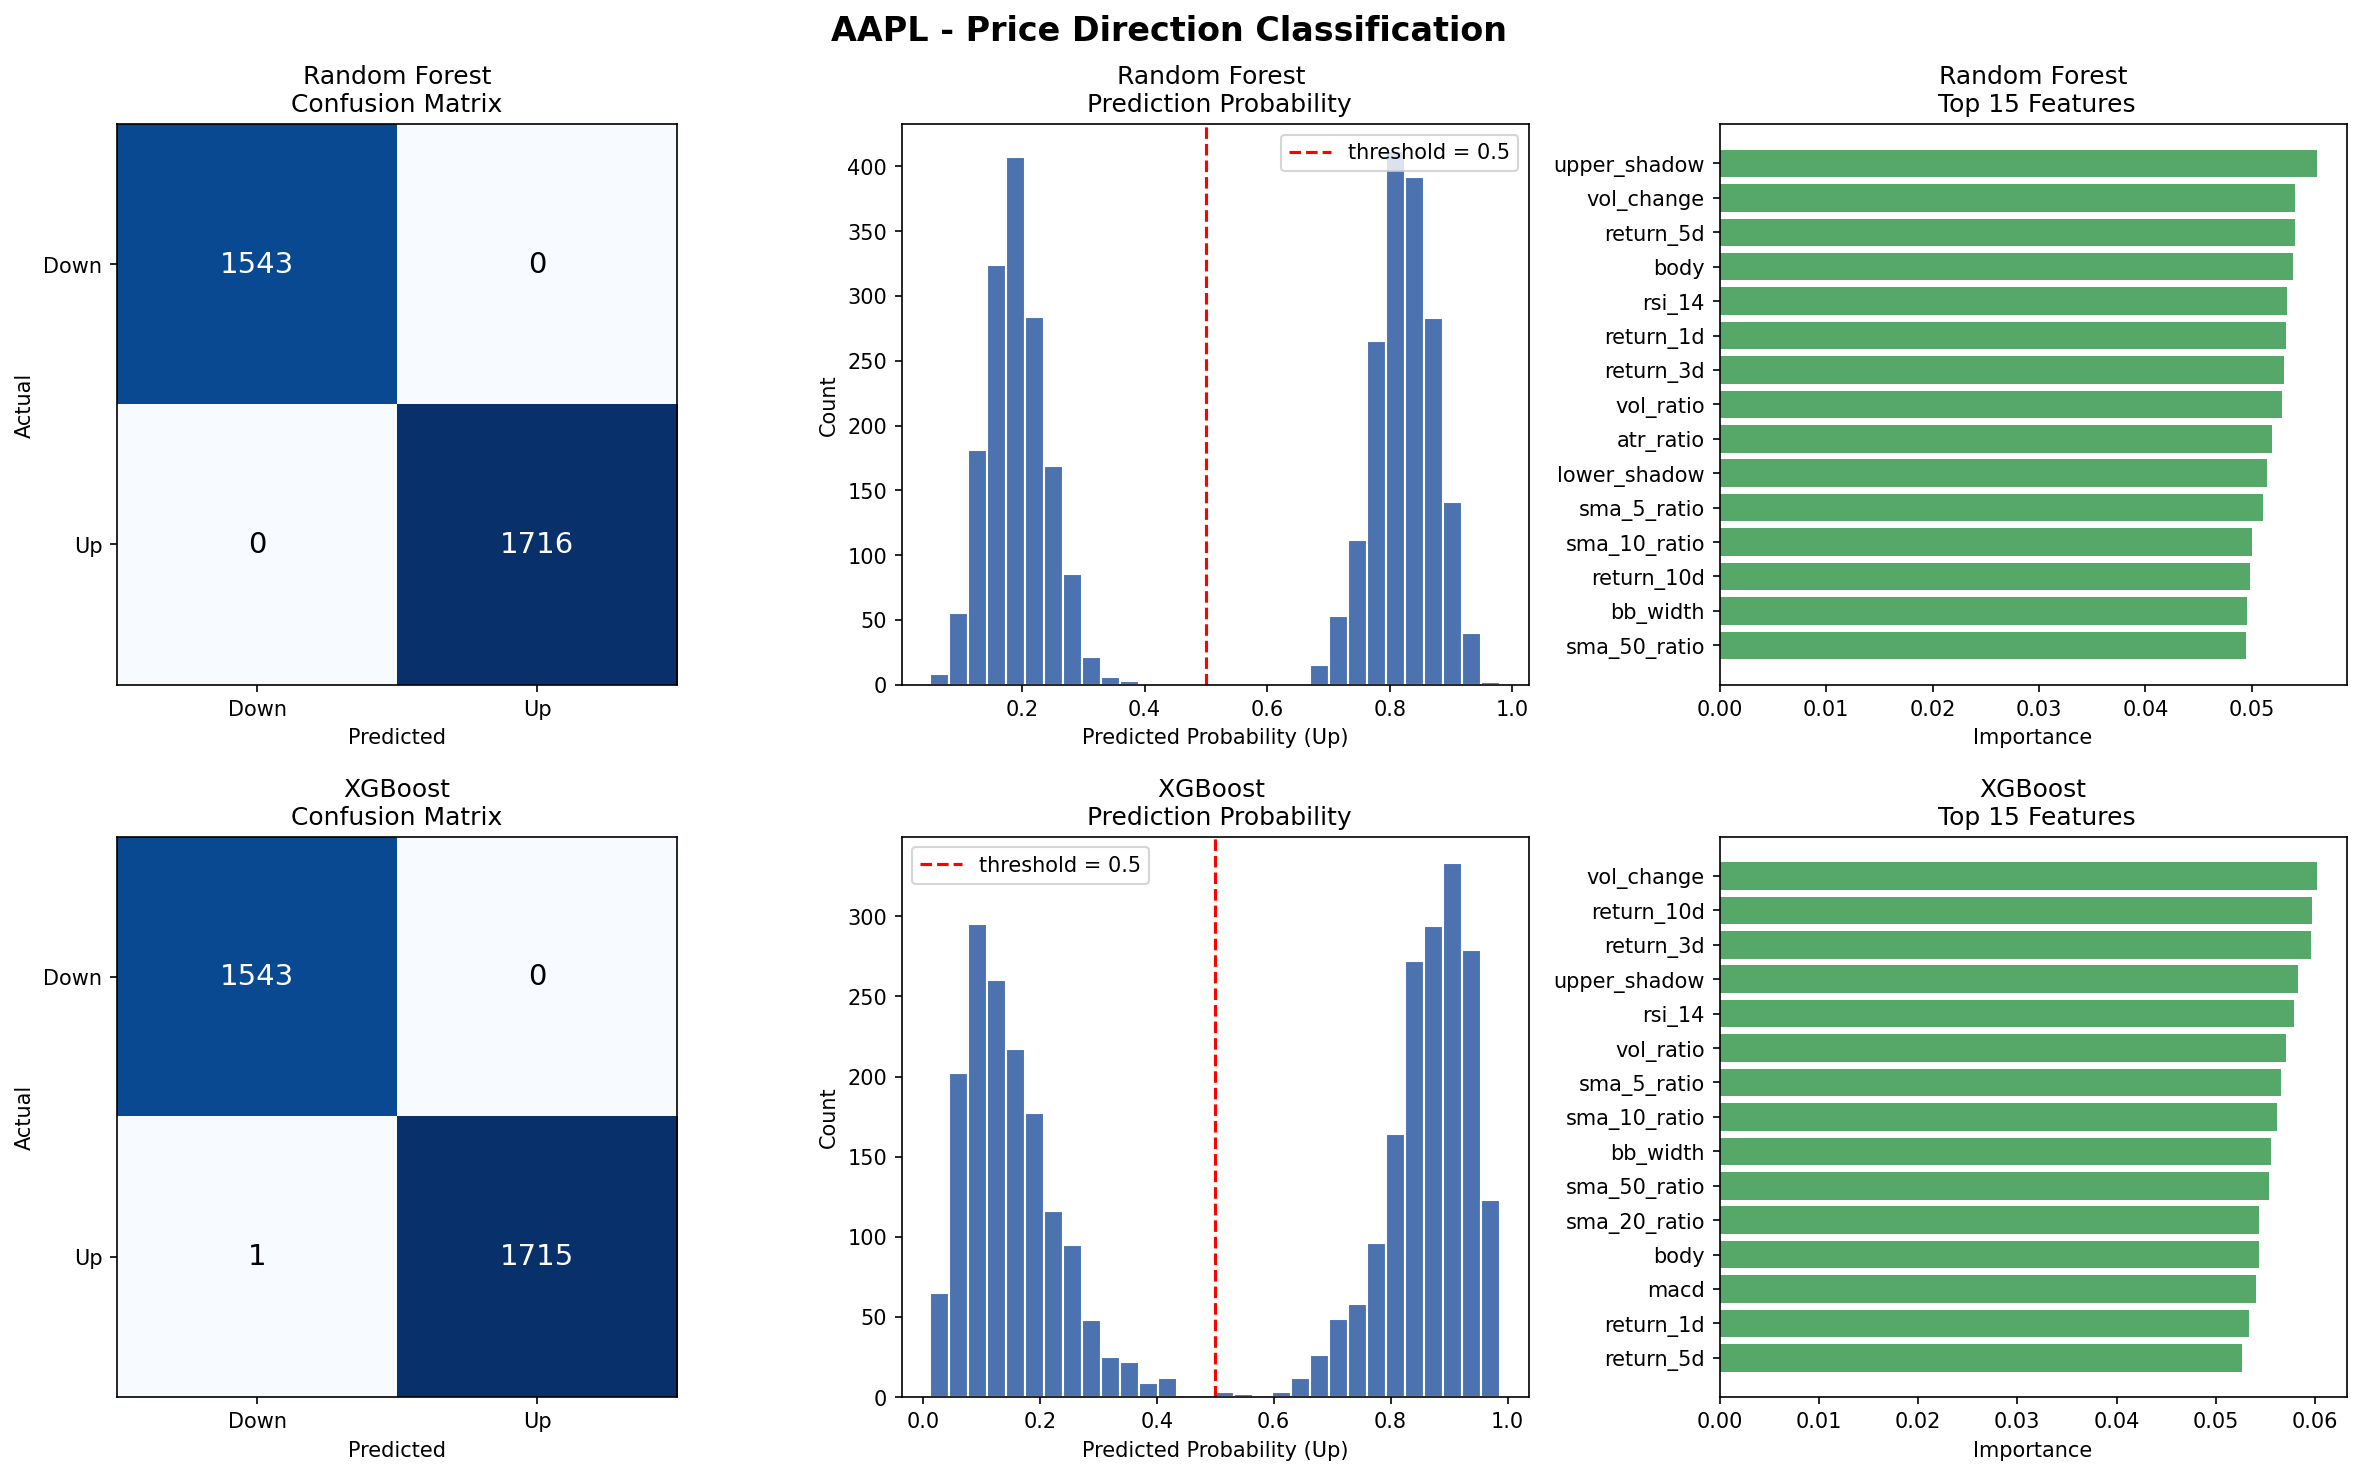
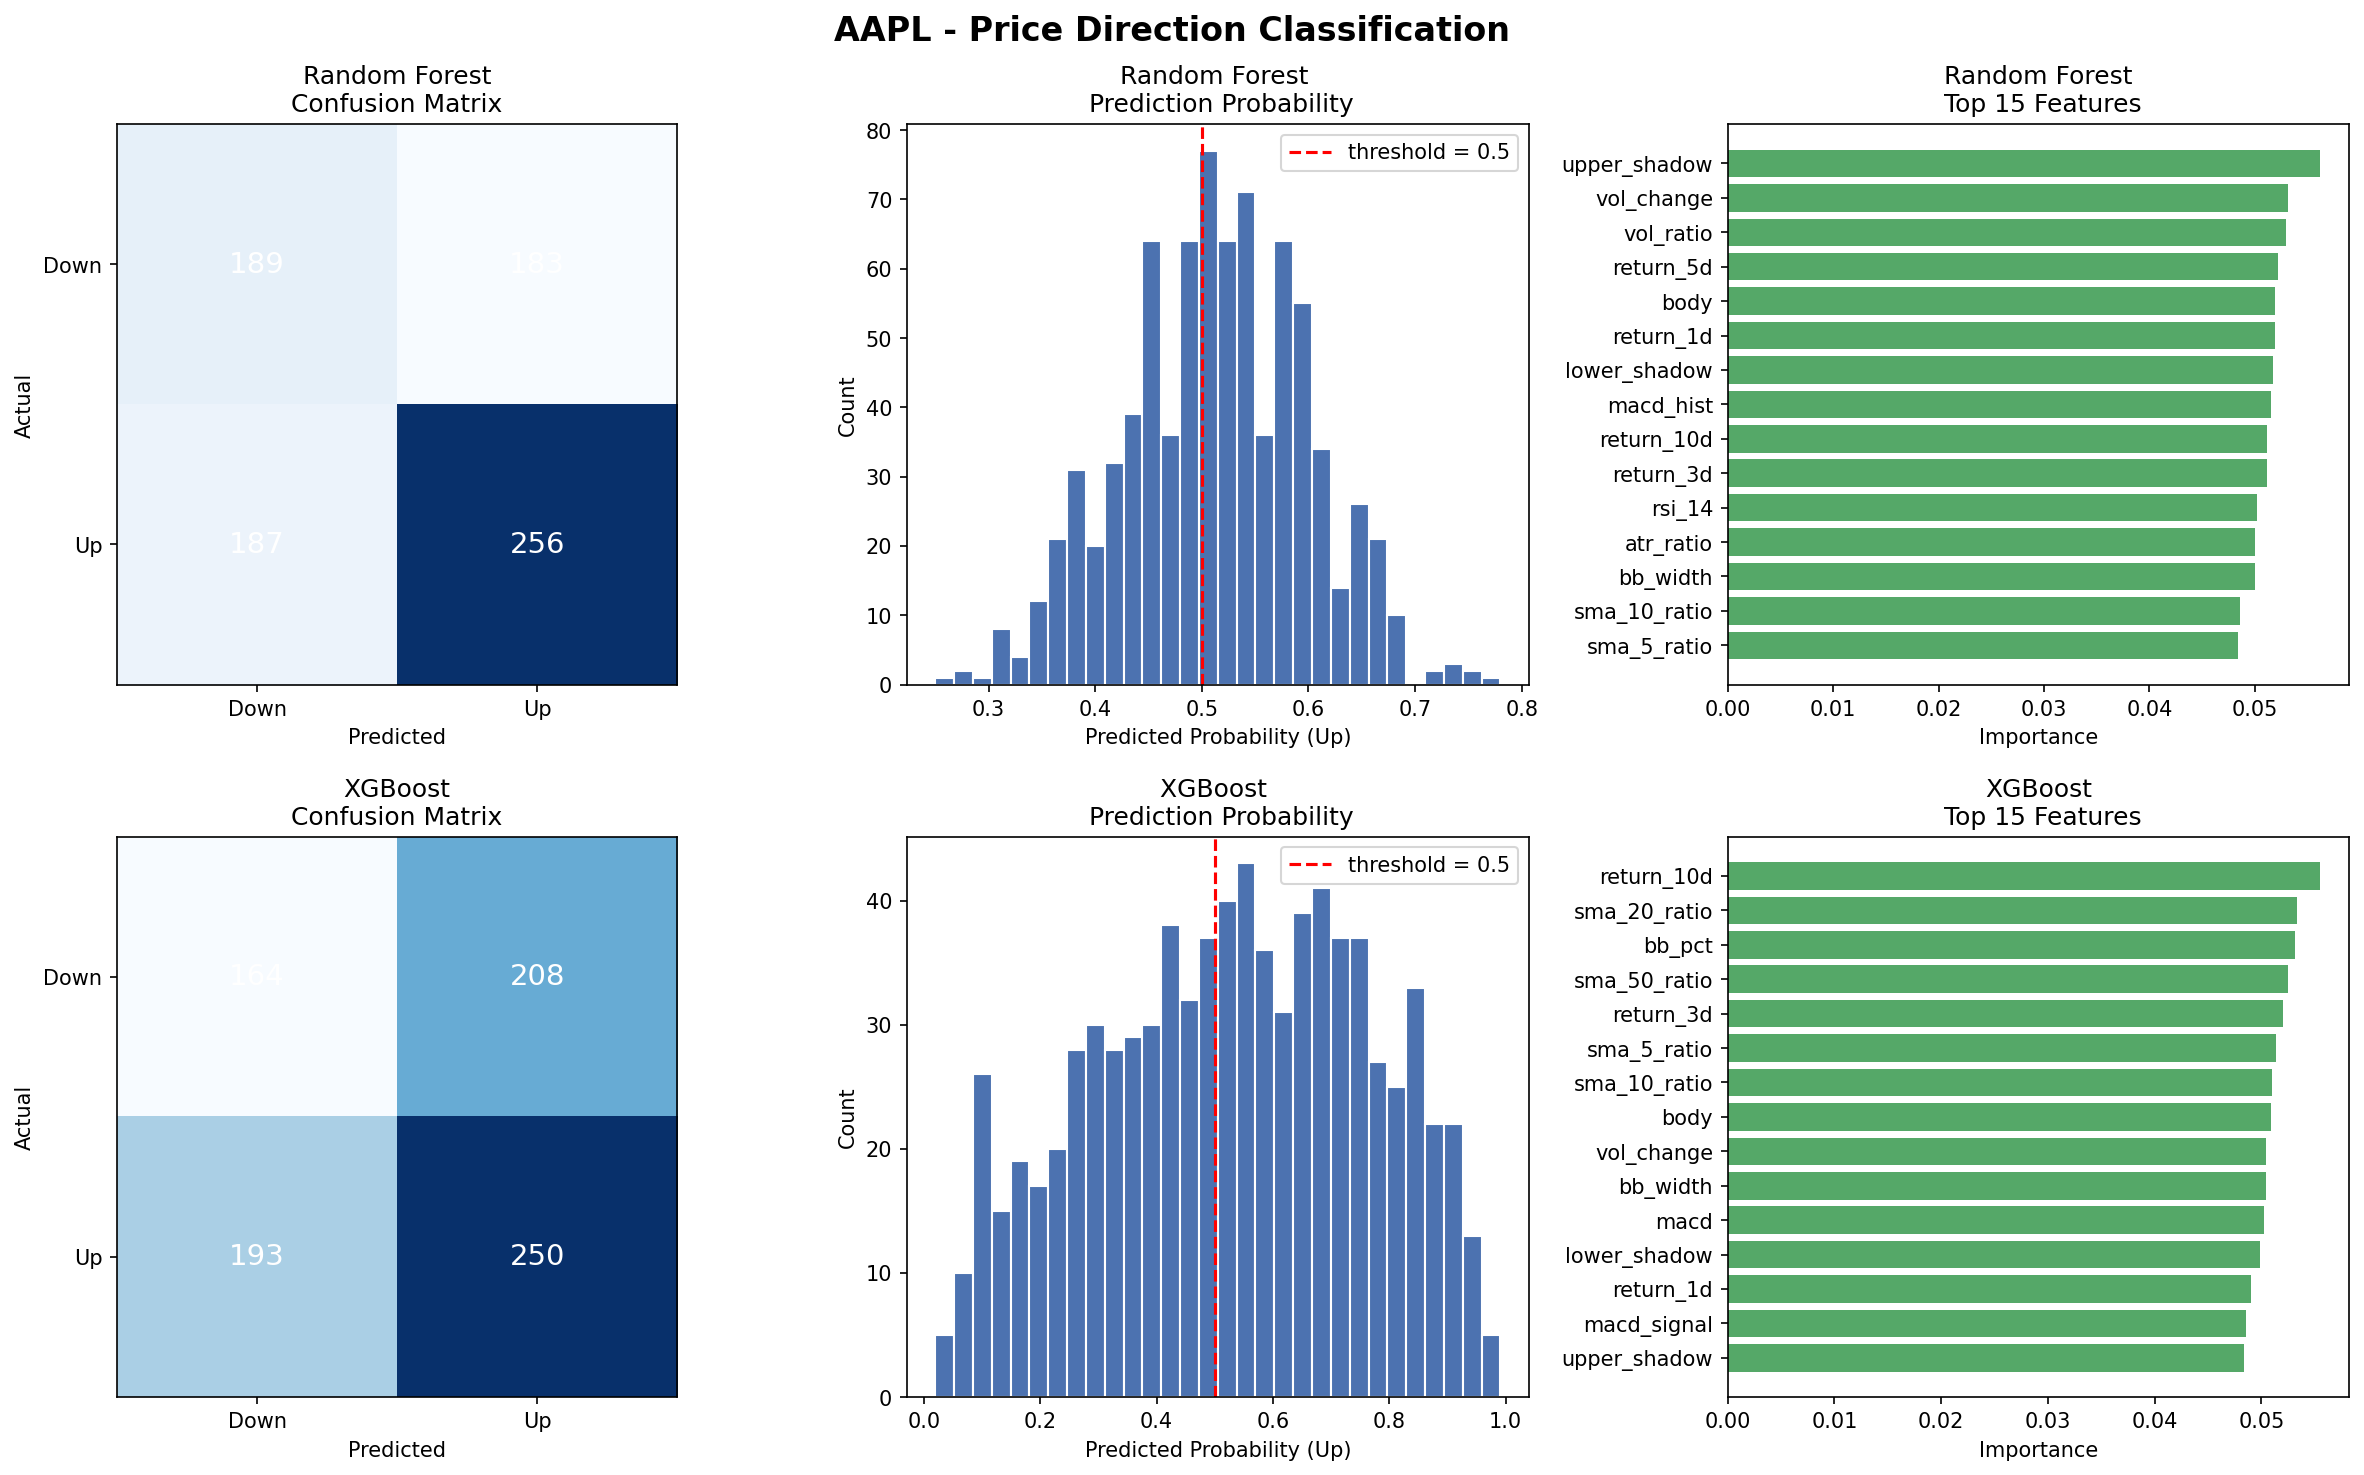
Code updated

diff --git a/main_pipeline.py b/main_pipeline.py
@@ -4,6 +4,7 @@ warnings.filterwarnings(action="ignore")
 from data.loader import load_from_db, get_connection
 from data.validator import data_validation, print_validation_report
 from features.engineer import add_features, prepare_Xy, time_split
+from features.pipeline import FeaturePipeline
 from models.train import train_all, save_models
 from models.tune import tune_all, build_base_models
 from models.evaluate import evaluate_all, plot_results, predict_tomorrow
@@ -44,10 +45,13 @@ def run_pipeline(tune=False):
 
         # ── Step 3: Feature Engineering ───────────────────────────────────────
         print("========== Layer 3: Feature Engineering ==========")
-        df_feat = add_features(df)
-        X, y, df_feat = prepare_Xy(df_feat)
-        X_train, X_test, y_train, y_test = time_split(X, y, test_size=TEST_SIZE)
+        obj = FeaturePipeline()
+        X_train, X_test, y_train, y_test, df_feat = obj.full_run(df)
         print(f"Train: {len(X_train)} rows | Test: {len(X_test)} rows\n")
+        # df_feat = add_features(df)
+        # X, y, df_feat = prepare_Xy(df_feat)
+        # X_train, X_test, y_train, y_test = time_split(X, y, test_size=TEST_SIZE)
+        # print(f"Train: {len(X_train)} rows | Test: {len(X_test)} rows\n")
 
         # ── Baseline (always-UP accuracy) — used for comparison ───────────────
         baseline_acc = float(y_test.mean())

diff --git a/features/feature_store.py b/features/feature_store.py
@@ -37,6 +37,11 @@ def load_features() -> pd.DataFrame:
     print(f"[feature_store] Loaded {len(df)} rows ← {STORE_PATH}")
     return df
 
+
+def features_exist() -> bool:
+    """Return True if a saved feature store is available on disk."""
+    return STORE_PATH.exists()
+    
     
 def delete_features() -> None:
     if STORE_PATH.exists():

diff --git a/features/__init__.py b/features/__init__.py
@@ -1,3 +1,0 @@
-from features.engineer      import add_features, prepare_Xy, time_split
-from features.feature_store import save_features, load_features, features_exist, delete_features
-from features.pipeline      import FeaturePipeline

diff --git a/features/pipeline.py b/features/pipeline.py
@@ -17,7 +17,7 @@ class FeaturePipeline:
         self.force_recompute = force_recompute
         self.test_size = TEST_SIZE 
         
-    def run(self, df_raw: pd.DataFrame) -> DataFrame:
+    def run(self, df_raw: pd.DataFrame) -> pd.DataFrame:
         
         if not self.force_recompute and features_exist():
             print("[FeaturePipeline] Loading features from the store (use force_recmpute= True to refresh).")